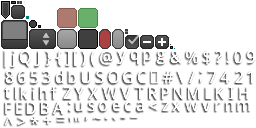
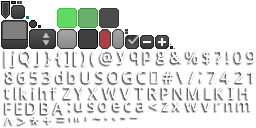
add button disable style

Changed region(s): [[0.375, 0.0625, 0.4688, 0.2188], [0.2188, 0.0625, 0.3125, 0.2188]]

diff --git a/core/src/com/mygdx/game/Grid.java b/core/src/com/mygdx/game/Grid.java
@@ -30,8 +30,8 @@ class Grid {
 	// debug onlye
 	static Circle circle = new Circle(0, 0, 3);
 
-	public Grid(float x, float y, Player p, boolean flip) {
-		placeTiles(x, y, p, flip);
+	public Grid(float x, float y, Player p) {
+		placeTiles(x, y, p, p.getFlip());
 	}
 
 	public class Lane extends Array<Tile> {
@@ -80,13 +80,9 @@ class Grid {
 
 	public void render(MyGdxGame game) {
 		ShapeRenderer sr = game.mShapeRenderer;
-		for (Iterator<Lane> liter = mLanes.iterator(); liter.hasNext();) {
-			Array<Tile> lane = liter.next();
-			for (Iterator<Tile> titer = lane.iterator(); titer.hasNext(); ) {
-				Tile tile = titer.next();
+		for (Lane lane: mLanes)
+			for (Tile tile: lane)
 				tile.render(game);
-			}
-		}
 
 		sr.begin(ShapeType.Line);
 		sr.setColor(Color.GREEN);
@@ -130,37 +126,26 @@ class Grid {
 		if (!contains(pos))
 			return false;
 		// System.out.println("grid is pressed...");
+
 		// debugging draws
 		circle.setX(pos.x);
 		circle.setY(pos.y);
 
-		for (Iterator<Lane> liter = mLanes.iterator(); liter.hasNext();) {
-			Array<Tile> lane = liter.next();
-			for (Iterator<Tile> titer = lane.iterator(); titer.hasNext(); ) {
-				Tile tile = titer.next();
+		for (Lane lane: mLanes)
+			for (Tile tile: lane)
 				if (tile.handleTouch(pos))
 					return true;
-			}
-		}
 		return false;
 	}
 
 	public boolean handleUp(Vector3 pos) {
 		if (!contains(pos))
 			return false;
-		for (Iterator<Lane> liter = mLanes.iterator(); liter.hasNext();) {
-			Array<Tile> lane = liter.next();
-			for (Iterator<Tile> titer = lane.iterator(); titer.hasNext(); ) {
-				Tile tile = titer.next();
+
+		for (Lane lane: mLanes)
+			for (Tile tile: lane)
 				if (tile.handleUp(pos))
 					return true;
-			}
-		}
 		return false;
 	}
-	/*
-	public Vector2 getUnitImageBase(int x, int y) {
-		return get(x)get(y);
-	}
-	*/
 }

diff --git a/core/src/com/mygdx/game/screens/GameScreen.java b/core/src/com/mygdx/game/screens/GameScreen.java
@@ -63,7 +63,8 @@ public class GameScreen implements Screen {
 		sTopMessage.showMessage(what, lastMs);
 	}
 
-	public class TopMessage extends Table implements Engine.EventListener {
+	public class TopMessage extends Table
+			implements Engine.EventListener {
 		Label mMessageLabel;
 		TopMessage() {
 			super();
@@ -77,18 +78,17 @@ public class GameScreen implements Screen {
 			// mStage.addActor(this);
 		}
 
-		void showMessage(String what, int lastMs) {
+		void showMessage(String what, int timeoutMs) {
 			mMessageLabel.setText(what);
-			if (lastMs <= 0) // no timeout
+			if (timeoutMs <= 0) // no timeout
 				return ;
 			java.util.Timer t = new java.util.Timer();
-			java.util.TimerTask resetTask = new java.util.TimerTask() {
+			t.schedule(new java.util.TimerTask() {
 				@Override
 				public void run() {
 					mMessageLabel.setText("");
 				}
-			};
-			t.schedule(resetTask, lastMs);
+			}, timeoutMs);
 		}
 
 		// Engine event implementations
@@ -127,11 +127,16 @@ public class GameScreen implements Screen {
 			add(mStatusLabel).left();
 			row();
 			add(mRangePattern).left();
+			setVisible(false);
 
 		}
 
 		public void setInformation(Unit u) {
-			mUnitNameLabel.setText("" + u.getType() + " - " + u.getName());
+			setVisible(u != null);
+			if (u == null)
+				return;
+			mUnitNameLabel.setText("" + u.getType()
+					+ " - " + u.getName());
 			mStatusLabel.setText("HP: " + u.getHp()+ " DMG: " +
 					u.getAtk() + " " + u.getRange());
 

diff --git a/core/src/com/mygdx/game/Player.java b/core/src/com/mygdx/game/Player.java
@@ -17,11 +17,12 @@ public class Player {
 	Array<Unit>			mOrderList;
 	Color				mColor;
 	int				mIndex;
+	boolean				mFlip;
 
 	private int			mBattleUnitCount;
 
 	public Player(float x, float y, Player opponent, Color c) {
-		boolean flip = false;
+		mFlip = false;
 		mColor = c;
 		// we are the bad guys!
 		if (opponent != null) {
@@ -29,10 +30,10 @@ public class Player {
 			// c = Color.RED;
 			opponent.mOpponent = this;
 			mOpponent = opponent;
-			flip = true;
+			mFlip = true;
 		}
 
-		mGrid = new Grid(x, y, this, flip);
+		mGrid = new Grid(x, y, this);
 		mOrderList = new Array<Unit>();
 	}
 
@@ -329,5 +330,7 @@ public class Player {
 		b.setOrder(ai + 1);
 		return true;
 	}
+
+	public boolean getFlip() { return mFlip; }
 
 }

diff --git a/core/src/com/mygdx/game/Unit.java b/core/src/com/mygdx/game/Unit.java
@@ -118,15 +118,12 @@ public class Unit {
 		if (mTile != null) {
 			mTile.setUnit(this);
 			if (mOwner == GameScreen.getControllingPlayer())
-				// GameScreen.sUnitSelectBar.removeButton(asButton(), this);
 				mButton.setDisabled(true);
-			// mOwner.addUnit(this);
 		} else {
 			if (mOwner == GameScreen.getControllingPlayer())
-				// GameScreen.sUnitSelectBar.addButton(asButton(), this);
 				mButton.setDisabled(false);
-			// mOwner.removeUnit(this);
 		}
+
 	}
 
 	public int getOrder() { return mOrder; }
